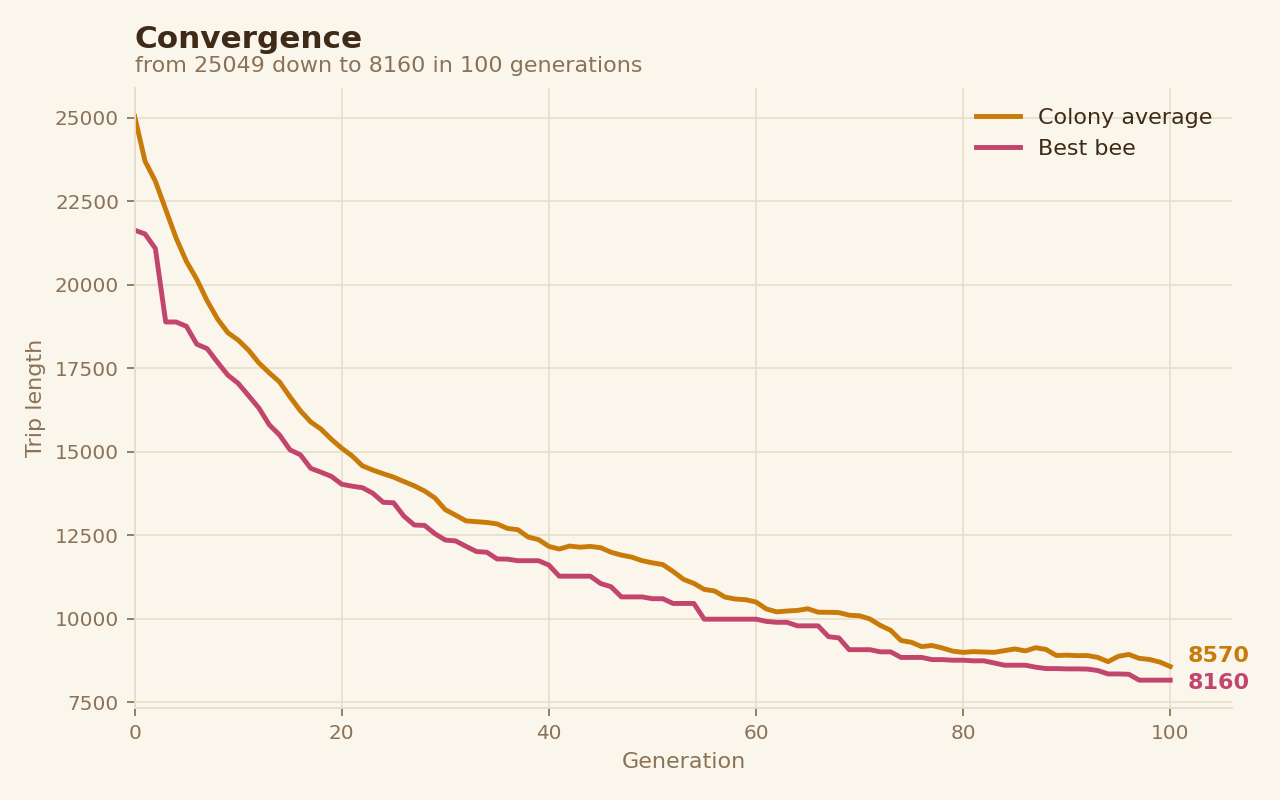
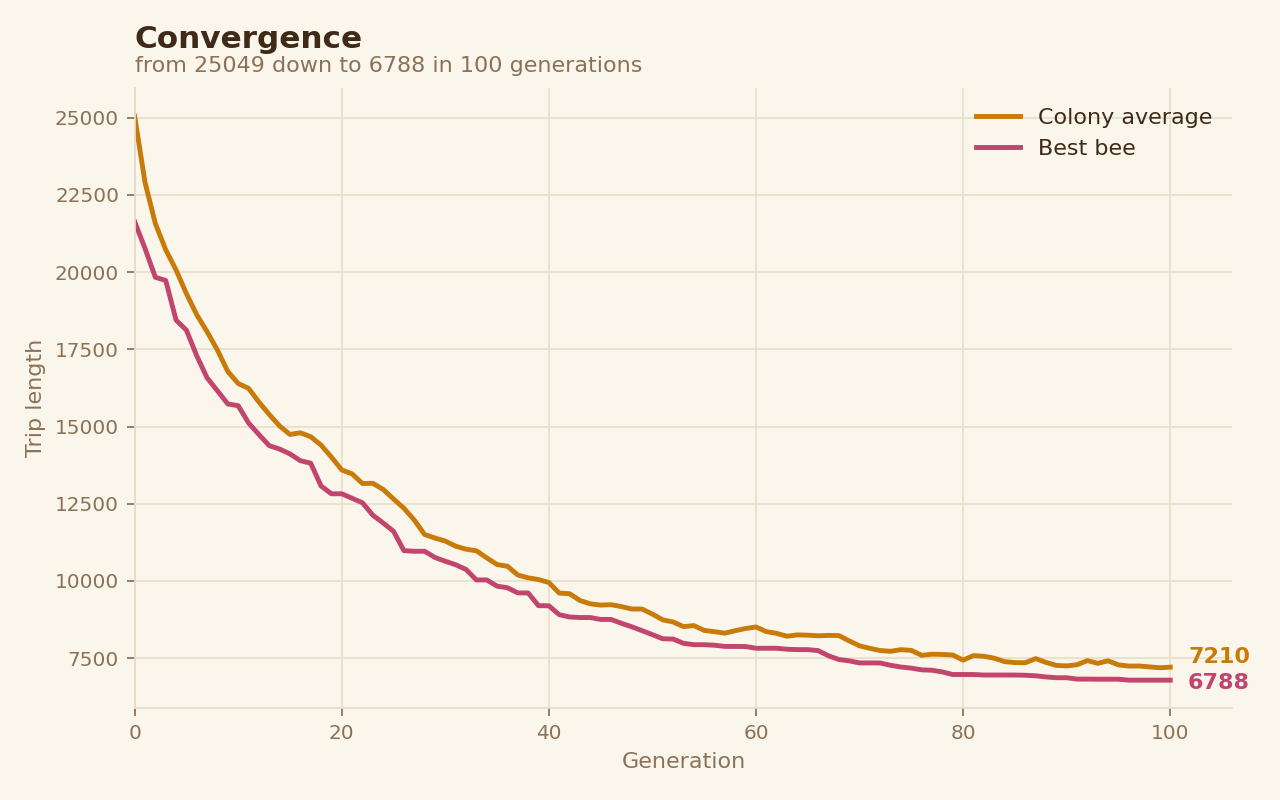
Add parameter study and switch to tournament 20, mutation 0.7

diff --git a/beehive.py b/beehive.py
@@ -69,13 +69,20 @@ def tournament(bees, rng, size):
 
 class Beehive:
     """Owns the flower field, the distance matrix, and the colony."""
-    def __init__(self, flowers, seed=None):
+    def __init__(self, flowers, seed=None, nb_bees=NB_BEES, nb_elites=NB_ELITES,
+                 tournament_size=TOURNAMENT_SIZE, mutation_rate=MUTATION_RATE,
+                 mutate=mutate_reverse):
         self.flowers = flowers
         self.nb_flowers = len(flowers)
         self.distances = build_distance_matrix(flowers)
         self.bees = []
         self.history = []
         self.rng = np.random.default_rng(seed)
+        self.nb_bees = nb_bees
+        self.nb_elites = nb_elites
+        self.tournament_size = tournament_size
+        self.mutation_rate = mutation_rate
+        self.mutate = mutate
 
     def init_bee(self):
         """One bee with a random visiting order"""
@@ -84,20 +91,20 @@ class Beehive:
 
     def init_bees(self):
         """Build the starting colony, best bee first"""
-        self.bees = [self.init_bee() for _ in range(NB_BEES)]
+        self.bees = [self.init_bee() for _ in range(self.nb_bees)]
         self.bees.sort()
         self.record()
 
     def next_generation(self):
-        """Replace the colony by the elite plus their offdpring."""
-        new_bees = self.bees[:NB_ELITES]
-        while len (new_bees) <NB_BEES:
-            mother = tournament(self.bees, self.rng, TOURNAMENT_SIZE)
-            father = tournament(self.bees, self.rng, TOURNAMENT_SIZE)
+        """Replace the colony by the elite plus their offspring."""
+        new_bees = self.bees[:self.nb_elites]
+        while len (new_bees) < self.nb_bees:
+            mother = tournament(self.bees, self.rng, self.tournament_size)
+            father = tournament(self.bees, self.rng, self.tournament_size)
             cut = int(self.rng.integers(1, self.nb_flowers))
             order = crossover(mother.order, father.order, cut)
-            if self.rng.random() < MUTATION_RATE:
-                order = mutate_reverse(order, self.rng)
+            if self.rng.random() < self.mutation_rate:
+                order = self.mutate(order, self.rng)
             new_bees.append(Bee(order, 
                                 path_length(order, self.distances),
                                 parents=(mother.id, father.id)))

diff --git a/study.py b/study.py
@@ -1,0 +1,50 @@
+"""Parameter study: one parameter at a time, averaged over several seeds."""
+
+import numpy as np
+
+from beehive import Beehive, load_field
+from config import FLOWERS_PATH, NB_GENERATIONS
+
+SEEDS = range(5)
+
+
+def final_best(flowers, seed, **parameters):
+    """Run one full simulation, return the best distance at the end."""
+    hive = Beehive(flowers, seed=seed, **parameters)
+    hive.init_bees()
+    for _ in range(NB_GENERATIONS):
+        hive.next_generation()
+    return hive.bees[0].distance
+
+
+def sweep(flowers, name, values):
+    """Vary one parameter, average the result over the seeds."""
+    print(f"\n--- {name} ---")
+    for value in values:
+        results = [final_best(flowers, seed, **{name: value}) for seed in SEEDS]
+        print(f"{name}={str(value):>5}   mean {np.mean(results):8.0f}"
+              f"   std {np.std(results):6.0f}")
+
+
+def sweep_pairs(flowers, pairs, seeds=range(12)):
+    """Test parameter combinations, since one-at-a-time sweeps miss interactions."""
+    print("\n--- combinations ---")
+    for tournament_size, mutation_rate in pairs:
+        results = [final_best(flowers, seed,
+                              tournament_size=tournament_size,
+                              mutation_rate=mutation_rate)
+                   for seed in seeds]
+        print(f"tournament={tournament_size:>3}  mutation={mutation_rate:>4}"
+              f"   mean {np.mean(results):8.0f}   std {np.std(results):6.0f}")
+
+
+def main():
+    flowers = load_field(FLOWERS_PATH)
+    sweep(flowers, "tournament_size", [2, 3, 5, 10, 20])
+    sweep(flowers, "mutation_rate", [0.0, 0.1, 0.3, 0.5, 0.8, 1.0])
+    sweep(flowers, "nb_elites", [0, 1, 5, 10, 25, 50])
+    sweep_pairs(flowers, [(3, 0.3), (10, 0.5), (20, 0.7), (50, 0.9), (100, 0.9)])
+
+
+if __name__ == "__main__":
+    main()

diff --git a/config.py b/config.py
@@ -14,5 +14,5 @@ NB_GENERATIONS = 100
 
 # Genetic algorithm parameters.
 NB_ELITES = 10          # best bees carried over untouched
-TOURNAMENT_SIZE = 3     # selection pressure
-MUTATION_RATE = 0.3     # probability of mutating a newborn
+TOURNAMENT_SIZE = 20
+MUTATION_RATE = 0.7    # probability of mutating a newborn

diff --git a/README.md b/README.md
@@ -10,11 +10,9 @@ Projet Bachelor 2 Data & IA — La Plateforme_
 
 ```bash
 uv sync
-uv run python main.py
+uv run python main.py     # une simulation + les trois figures
+uv run python study.py    # l'étude des paramètres (environ 1 min 30)
 ```
-
-Le programme affiche la progression toutes les 10 générations et écrit trois
-figures dans `figures/`.
 
 ## Structure
 
@@ -24,6 +22,7 @@ figures dans `figures/`.
 | `bee.py` | La classe `Bee` : un ordre de visite, sa longueur, ses parents |
 | `beehive.py` | Le champ, la matrice de distances, la colonie et les opérateurs |
 | `plots.py` | Les trois figures |
+| `study.py` | L'étude des paramètres |
 | `main.py` | Point d'entrée |
 
 ## Le champ
@@ -52,7 +51,7 @@ Mesuré sur 9 000 évaluations, résultats identiques des deux côtés :
 Soit **5,4 fois plus rapide**. L'écart est plus faible que le rapport du
 nombre de racines carrées le laisserait croire, parce que le coût ne vient
 pas uniquement des racines : la boucle Python et les accès mémoire pèsent
-dans les deux cas. D'où l'intérêt de mesurer plutôt que de raisonner.
+dans les deux cas.
 
 ### Un croisement qui préserve la permutation
 
@@ -74,39 +73,120 @@ deux fleurs en modifie quatre. La mutation conserve donc davantage de ce que
 l'abeille avait déjà de bon, et a plus de chances de l'améliorer légèrement
 plutôt que de le détruire.
 
-Les fleurs à l'intérieur du segment inversé gardent les mêmes voisines, elles
-sont simplement parcourues à l'envers ; la matrice étant symétrique, ces
-distances-là ne changent pas.
+### Sélection par tournoi et élitisme
 
-### Une sélection par tournoi de 3
+Le tournoi tire plusieurs abeilles au hasard et garde la meilleure : il
+favorise les bonnes sans exclure les autres. Les 10 meilleures passent à la
+génération suivante sans modification, ce qui garantit que la meilleure
+distance ne remonte jamais.
 
-Marier systématiquement les meilleures ferait converger toute la population
-vers deux ancêtres en quelques générations. Le tournoi tire trois abeilles au
-hasard et garde la meilleure : il favorise les bonnes sans exclure les
-autres.
+## Étude des paramètres
 
-### De l'élitisme
+Chaque réglage est testé sur 5 graines aléatoires différentes. On compare la
+moyenne des résultats, mais aussi leur **écart-type** : si deux réglages
+diffèrent moins que la dispersion de leurs propres mesures, on ne peut pas
+conclure qu'ils diffèrent.
 
-Les 10 meilleures passent à la génération suivante sans modification, ce qui
-garantit que la meilleure distance ne remonte jamais d'une génération à
-l'autre.
+### Un paramètre à la fois
+
+Les autres paramètres restent à leur valeur initiale (tournoi 3, mutation 0,3,
+10 élites).
+
+**Taille du tournoi**
+
+| Taille | Meilleure (moyenne) | Écart-type |
+|---|---|---|
+| 2 | 9 409 | 383 |
+| 3 | 8 330 | 284 |
+| 5 | 7 466 | 281 |
+| 10 | 7 259 | 146 |
+| 20 | 7 428 | 432 |
+
+Un tournoi de 2 ne trie presque pas. L'optimum est vers 10.
+
+**Taux de mutation**
+
+| Taux | Meilleure (moyenne) | Écart-type |
+|---|---|---|
+| 0,0 | 16 724 | 541 |
+| 0,1 | 9 218 | 199 |
+| 0,3 | 8 330 | 284 |
+| 0,5 | 8 204 | 446 |
+| 0,8 | 8 834 | 437 |
+| 1,0 | 9 464 | 335 |
+
+Sans mutation, le résultat est deux fois pire : les enfants ne font que
+recombiner ce qui existe déjà, la population se fige. À l'inverse, muter tout
+le monde détruit à chaque génération ce que la sélection vient de trouver.
+
+**Nombre d'élites**
+
+| Élites | Meilleure (moyenne) | Écart-type |
+|---|---|---|
+| 0 | 8 350 | 143 |
+| 1 | 8 423 | 536 |
+| 5 | 8 257 | 370 |
+| 10 | 8 330 | 284 |
+| 25 | 8 394 | 369 |
+| 50 | 9 424 | 820 |
+
+Entre 0 et 25, les écarts sont plus petits que les écarts-types : **aucun effet
+mesurable**. Seul 50 dégrade nettement — la moitié de la population ne change
+plus, il reste moitié moins de place pour les enfants.
+
+### Combinaisons
+
+Tester un paramètre à la fois ne suffit pas : deux paramètres peuvent
+interagir. Mesuré sur 12 graines :
+
+| Tournoi | Mutation | Meilleure (moyenne) | Écart-type |
+|---|---|---|---|
+| 3 | 0,3 | 8 092 | 423 |
+| 10 | 0,5 | 7 081 | 155 |
+| **20** | **0,7** | **6 750** | 276 |
+| 50 | 0,9 | 6 543 | 173 |
+| 100 | 0,9 | 6 462 | 141 |
+
+Mesuré seul, un tournoi de 20 était moins bon qu'un tournoi de 10. Combiné à
+une mutation plus forte, il devient meilleur : une sélection plus dure paie
+quand la mutation fournit assez de diversité pour la nourrir.
+
+### Pourquoi ne pas prendre le meilleur chiffre
+
+Avec un tournoi de 100 sur une population de 100, le tournoi retient toujours
+la même abeille : la meilleure. La mère et le père sont donc identiques, et
+croiser une abeille avec elle-même la redonne exactement (vérifié sur 200
+permutations × 51 positions de coupe). **Le croisement ne fait plus rien** :
+chaque enfant est un clone muté de la meilleure abeille.
+
+Ce n'est plus un algorithme génétique mais une recherche locale. Qu'elle soit
+la plus performante montre que sur ce problème, à cette taille, **l'essentiel
+du travail est fait par la mutation 2-opt, pas par le croisement**.
+
+### Réglage retenu
+
+**Tournoi 20, mutation 0,7, 10 élites.** C'est le meilleur réglage qui reste un
+vrai algorithme génétique — les parents sont distincts, le croisement opère.
 
 ## Résultats
 
-Avec `seed=0`, 100 abeilles, 100 générations :
+Avec le réglage retenu, `seed=0`, 100 abeilles, 100 générations :
 
 | | Génération 0 | Génération 100 |
 |---|---|---|
-| Moyenne de la colonie | 25 049 | 8 570 |
-| Meilleure abeille | 21 637 | 8 160 |
+| Moyenne de la colonie | 25 049 | 7 210 |
+| Meilleure abeille | 21 637 | 6 788 |
 
-Une réduction de 66 % de la distance moyenne, en moins d'une seconde.
+Une réduction de 71 % de la distance moyenne, en moins d'une seconde. Le
+réglage initial (tournoi 3, mutation 0,3) donnait 8 160.
 
 ![Convergence](figures/convergence.png)
 
 ![Meilleur trajet](figures/tour.png)
 
-## Comparaisons
+## Autres comparaisons
+
+Mesurées avec le réglage initial (tournoi 3, mutation 0,3).
 
 ### Opérateur de mutation
 
@@ -115,27 +195,23 @@ Une réduction de 66 % de la distance moyenne, en moins d'une seconde.
 | Inversion de segment (2-opt) | **8 570** | **8 160** |
 | Échange de deux fleurs | 10 288 | 9 839 |
 
-16,7 % de mieux sur la moyenne, 17,1 % sur la meilleure. La forme des courbes
-diffère aussi : avec l'échange, la convergence s'aplatit dès la 60ᵉ
-génération ; avec l'inversion, elle progresse encore à la 100ᵉ.
+16,7 % de mieux sur la moyenne, 17,1 % sur la meilleure.
 
 ### Remplacement générationnel ou steady-state
 
 Une erreur d'indentation a produit accidentellement une variante où la
 population est remplacée à chaque naissance, les nouveau-nées devenant
-immédiatement parents potentiels. Elle converge **mieux** : 6 745 contre
-8 160 pour la version générationnelle demandée par le sujet. Piste à creuser
-plutôt qu'anomalie à corriger.
+immédiatement parents potentiels. Elle converge mieux : 6 745 contre 8 160
+pour la version générationnelle demandée par le sujet.
 
 ## Limites
 
-Le meilleur trajet trouvé se croise lui-même en plusieurs endroits, visible
-sur la figure ci-dessus. Or deux segments qui se croisent peuvent toujours
-être remplacés par deux segments plus courts. 8 160 n'est donc pas l'optimum,
-et la preuve est géométrique, pas statistique.
+Le meilleur trajet trouvé se croise encore **une fois** (compté par calcul
+sur les 51 segments). Or deux segments qui se croisent peuvent toujours être
+remplacés par deux segments plus courts : ce seul croisement prouve que
+6 788 n'est pas l'optimum. Le réglage initial, à 8 160, en laissait plusieurs.
 
 ## À faire
 
-- Étude des paramètres : taille du tournoi, taux de mutation, nombre d'élites
 - Passage à l'échelle sur 250 et 1 000 fleurs
 - Veille sur d'autres approches heuristiques
